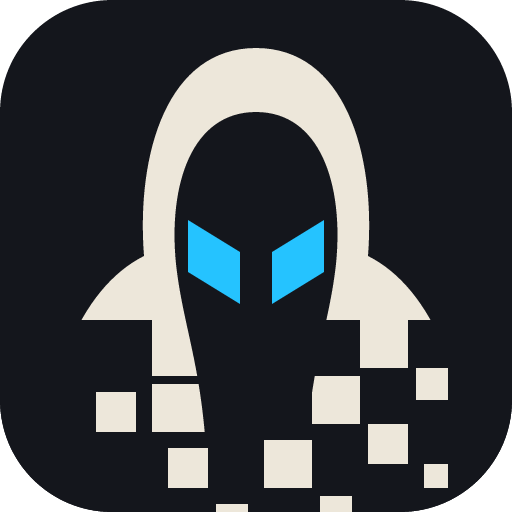
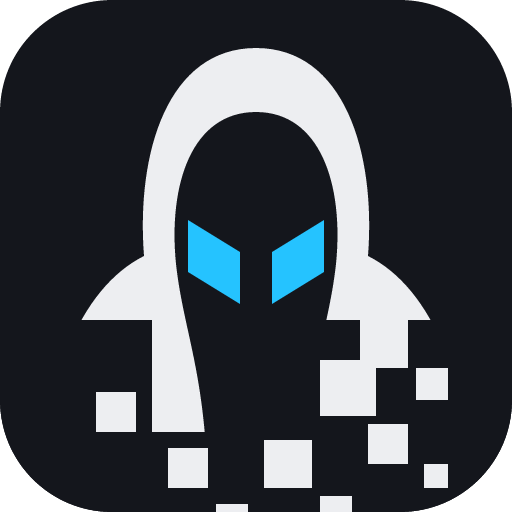
fix(brand): close two holes in the mark, drop a dead block, and cool the figure
The figure was #EDE7DA -- hue 41 degrees, visibly yellow beside the app's other
near-whites, and a FOURTH one beside --text, --surface and white. It is #edeef1
now, which is --text's dark value, so the badge and the app icon stop inventing
a near-white of their own. BrandMark was already `currentColor` and unaffected.

Two one-unit holes ran across the silhouette, both visible the moment the page
is zoomed. Measured by rasterizing the mark and reading lit spans per scanline
rather than by eye:

  * left, the block at y=48 cleared the one above it, which ends at y=47;
  * right, the block at y=47 cleared the one above by a unit in y AND the one
    beside it by a unit in x, so it touched nothing at all.

Both now OVERLAP their neighbour rather than abutting it, so no renderer that
seams a shared edge can reopen them, and the left column still ends where it
did. Confirmed by alpha: no dip anywhere down the column, where before the gap
read as a full transparent row.

`[31, 40, 7]` is deleted. It sat wholly inside the face cavity, which is cut
AFTER the upper blocks, so it drew nothing -- removing it left the render
byte-identical. The header comment now says what that pass does, since a block
that draws nothing looks exactly like one that does.

Icons regenerated, which is what caught the last part: `appIcon.test.ts` and
`accent.test.ts` each transcribed "#EDE7DA" and "#14161C" as literals, so
recoloring the figure failed in two tests about the ACCENT, naming a color
[…]

Changed region(s): [[0.5938, 0.6875, 0.75, 0.8438], [0.2812, 0.7188, 0.4062, 0.75]]

diff --git a/frontend/src/brand/dissolve.ts b/frontend/src/brand/dissolve.ts
@@ -21,8 +21,10 @@ export const DISSOLVE_VIEWBOX = "0 0 64 64";
 
 /** The fixed shell color. Dark in both themes: the mark carries its own ground. */
 export const DISSOLVE_INK = "#14161C";
-/** The fixed figure color -- a warm off-white, not pure white, so it sits with the ink. */
-export const DISSOLVE_BONE = "#EDE7DA";
+/** The fixed figure color. It matches `--text`'s dark value rather than being a cream of its
+ *  own: at #EDE7DA the figure was hue 41 degrees and read visibly yellow beside the app's other
+ *  near-whites, and it was a FOURTH one -- --text, --surface, white, and this. */
+export const DISSOLVE_BONE = "#edeef1";
 
 /** The cowl: head and shoulders in one silhouette. */
 export const DISSOLVE_HOOD_D =
@@ -40,14 +42,26 @@ export const DISSOLVE_CUT = { x: 0, y: 40, width: 64, height: 24 } as const;
 /** A falling block: `[x, y, size]` on the 64 grid. */
 export type DissolveBlock = readonly [number, number, number];
 
-/** Blocks painted over the cut band, before the face cavity. */
+/** Blocks painted over the cut band, before the face cavity -- so the cavity cuts them, and
+ *  what each one contributes is its part OUTSIDE the cavity. Two consequences worth knowing
+ *  before moving one: a block that sits wholly inside the cavity draws nothing at all, and the
+ *  left column's right edge is the cavity's edge rather than any block's.
+ *
+ *  `[31, 40, 7]` used to sit here and was exactly that: wholly inside the cavity, contributing
+ *  nothing. Removing it left the render byte-identical. */
 export const DISSOLVE_BLOCKS_UPPER: readonly DissolveBlock[] = [
   [19, 40, 7],
-  [31, 40, 7],
   [25, 47, 7],
-  [39, 47, 6],
-  [19, 48, 6],
+  // Started at y=48 and left a one-unit hole across the left column, since the block above it
+  // ends at y=47. It starts at 46 now, so it OVERLAPS that block rather than sharing an edge,
+  // and is a unit bigger so the column still ends where it did. The extra width falls inside
+  // the face cavity and draws nothing. (Coordinates stay out of this prose deliberately: a
+  // bracketed triple in a comment reads as a block to anything scanning this file.)
+  [19, 46, 8],
   [45, 40, 6],
+  // Moved up two and left one so it overlaps the block above it. Before, it cleared that block
+  // by a unit in y and the one beside it by a unit in x, so it touched nothing at all.
+  [40, 45, 7],
 ];
 
 /** Blocks painted last, scattering toward the bottom edge. Some run past the grid on purpose:

diff --git a/frontend/src/brand/appIcon.test.ts b/frontend/src/brand/appIcon.test.ts
@@ -25,6 +25,7 @@ import { describe, expect, it } from "vitest";
 
 import { DEFAULT_ACCENT } from "../accent";
 import { APP_ICON_RADIUS, appIconSvg } from "./appIcon";
+import { DISSOLVE_BONE, DISSOLVE_INK } from "./dissolve";
 import manifest from "./icons.generated.json";
 
 const here = dirname(fileURLToPath(import.meta.url));
@@ -50,15 +51,19 @@ describe("app icon", () => {
     const svg = appIconSvg("#ff0000");
     // Both eyes, and nothing else, are painted in the passed color.
     expect(svg.match(/#ff0000/g)).toHaveLength(2);
-    // The shell and figure are absent from the accent's influence entirely.
-    expect(svg).toContain("#14161C");
-    expect(svg).toContain("#EDE7DA");
+    // The shell and figure are absent from the accent's influence entirely. Read from the
+    // drawing rather than transcribed: these two literals sat here as "#14161C" and "#EDE7DA",
+    // so recoloring the figure failed HERE, in a test about the accent, naming a color it was
+    // never about (rule 119).
+    expect(svg).toContain(DISSOLVE_INK);
+    expect(svg).toContain(DISSOLVE_BONE);
+    expect(DISSOLVE_BONE).not.toBe(DISSOLVE_INK);
     expect(appIconSvg("#00ff00")).not.toContain("#ff0000");
   });
 
   it("offers a full-bleed square for masked surfaces (iOS, maskable)", () => {
     expect(appIconSvg(DEFAULT_ACCENT, { radius: 0 })).toContain(
-      '<rect width="64" height="64" rx="0" fill="#14161C"/>',
+      `<rect width="64" height="64" rx="0" fill="${DISSOLVE_INK}"/>`,
     );
     expect(appIconSvg(DEFAULT_ACCENT)).toContain(`rx="${APP_ICON_RADIUS}"`);
   });

diff --git a/frontend/src/accent.test.ts b/frontend/src/accent.test.ts
@@ -1,5 +1,6 @@
 // SPDX-License-Identifier: AGPL-3.0-or-later
 import { readFileSync } from "node:fs";
+import { DISSOLVE_BONE, DISSOLVE_INK } from "./brand/dissolve";
 import { dirname, join } from "node:path";
 import { fileURLToPath } from "node:url";
 
@@ -228,8 +229,8 @@ describe("applyAccent favicon", () => {
     applyAccent("#24b26b");
     const svg = decodeURIComponent(appIconDataUri("#24b26b"));
     expect(svg.match(/#24b26b/g)).toHaveLength(2); // both eyes ride the accent
-    expect(svg).toContain("#14161C"); // the shell does not
-    expect(svg).toContain("#EDE7DA"); // nor the figure
+    expect(svg).toContain(DISSOLVE_INK); // the shell does not
+    expect(svg).toContain(DISSOLVE_BONE); // nor the figure
   });
 
   it("does not touch the favicon for a malformed color", () => {
